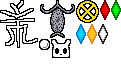
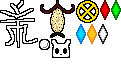
sprite changes

Changed region(s): [[0.3223, 0.0, 0.6198, 0.475], [0.5207, 0.45, 0.5455, 0.475], [0.3471, 0.05, 0.3719, 0.075]]

diff --git a/GameAtlases.cs b/GameAtlases.cs
@@ -121,6 +121,7 @@ namespace Cornifer
         {
             { "ArrowLeft",     (new(0, 0,  22, 13), new(255, 255, 255, 255)) },
             { "ArrowRight",    (new(0, 13, 22, 13), new(255, 255, 255, 255)) },
+            { "KarmaR",        (new(23, 0, 34, 34), new(255, 255, 255, 255)) },
         };
 
         public static void Load()

diff --git a/GateSymbols.cs b/GateSymbols.cs
@@ -50,7 +50,7 @@ namespace Cornifer
                 "3" => "karma2",
                 "4" => "karma3",
                 "5" => "karma4",
-                "R" => "smallKarmaNoRingR",
+                "R" => "Misc_KarmaR",
                 _ => null
             };
 
